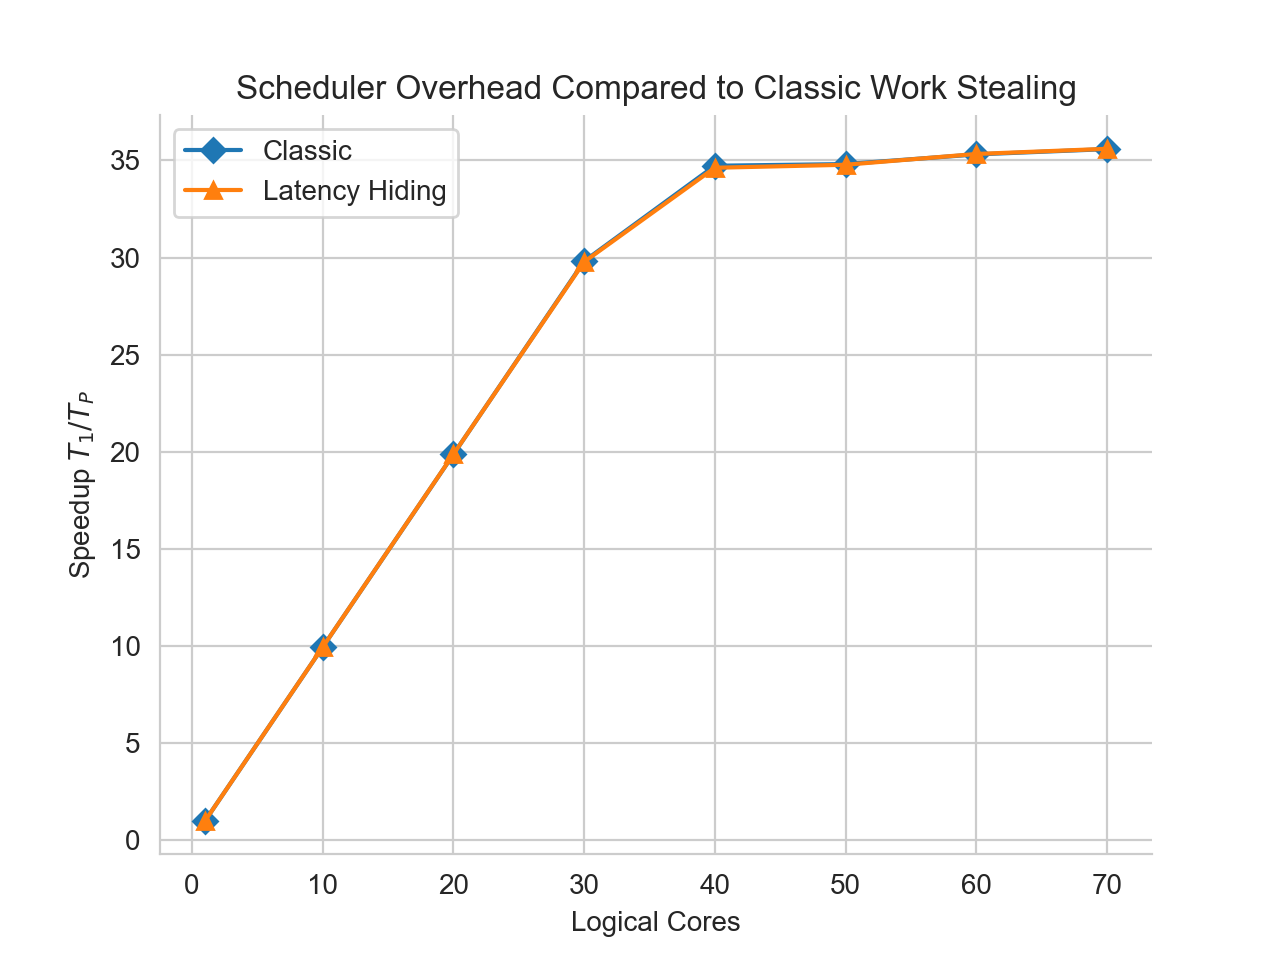
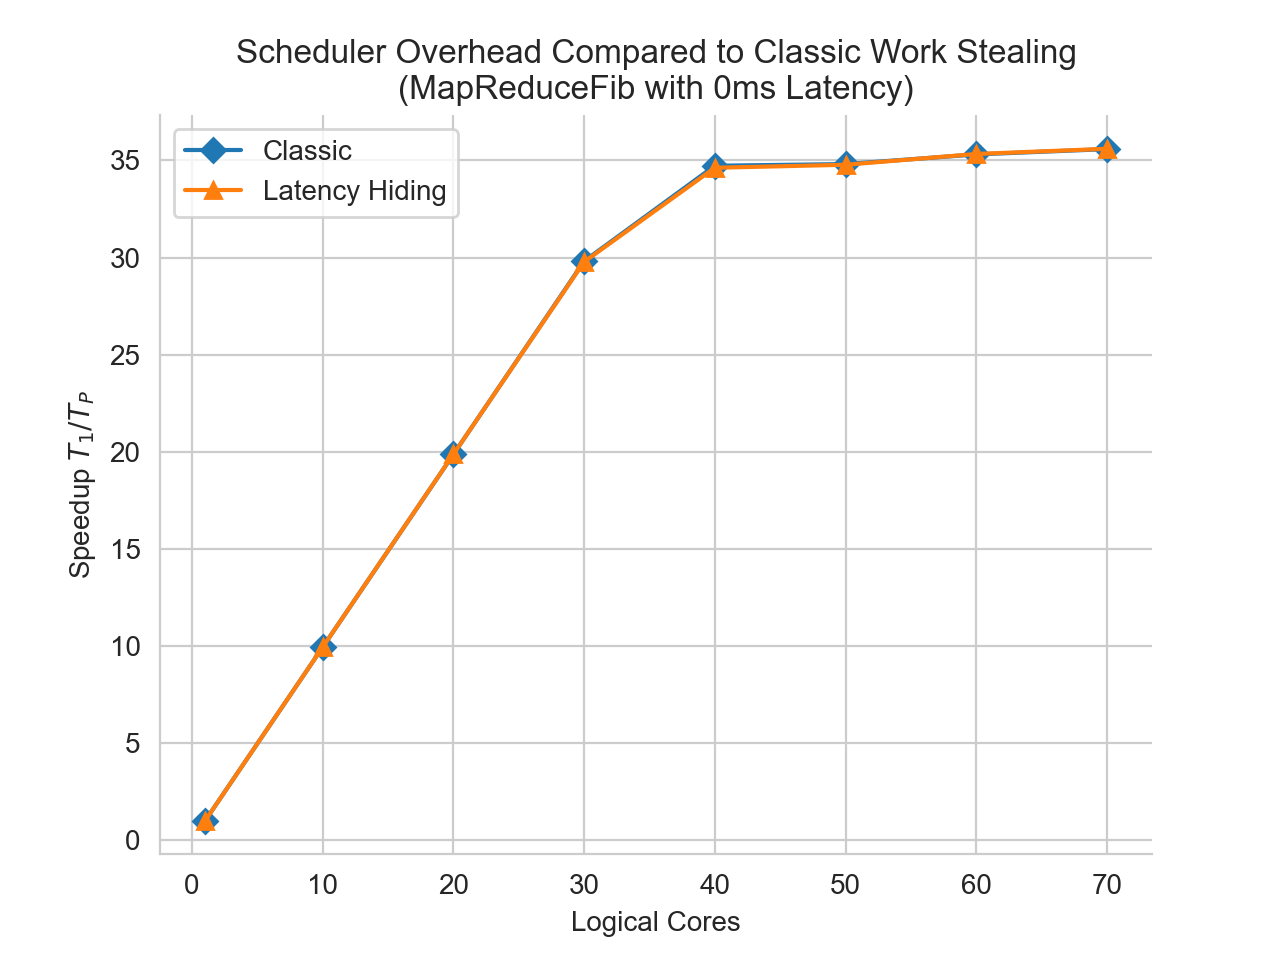
Plot fixups

Changed region(s): [[0.1875, 0.0312, 0.8438, 0.125]]

diff --git a/plotting/overhead.py b/plotting/overhead.py
@@ -59,7 +59,7 @@ with sns.axes_style(style="whitegrid"):
     plt.plot(classic['Cores'], classic['Speedup'], marker='D', label='Classic')
     plt.plot(lh['Cores'], lh['Speedup'], marker='^', label='Latency Hiding')
 
-    plt.title(f'Scheduler Overhead Compared to Classic Work Stealing')
+    plt.title(f'Scheduler Overhead Compared to Classic Work Stealing\n(MapReduceFib with 0ms Latency)')
     plt.legend(loc='best')
     plt.xlabel('Logical Cores')
     plt.ylabel(r'Speedup $T_1 / T_P$')

diff --git a/plotting/map_reduce.py b/plotting/map_reduce.py
@@ -75,7 +75,7 @@ for latency in latencies:
         plt.plot(lh['Cores'], lh['Speedup'], marker='^', label='Latency Hiding')
         plt.plot(ideal['Cores'], ideal['Speedup'], marker='o', label='Ideal')
 
-        plt.title(f'MapReduceFib with Latency: {latency}')
+        plt.title(f'MapReduceFib with Latency: {latency}ms')
         plt.legend(loc='best')
         plt.xlabel('Logical Cores')
         plt.ylabel(r'Speedup $T_1 / T_P$')
